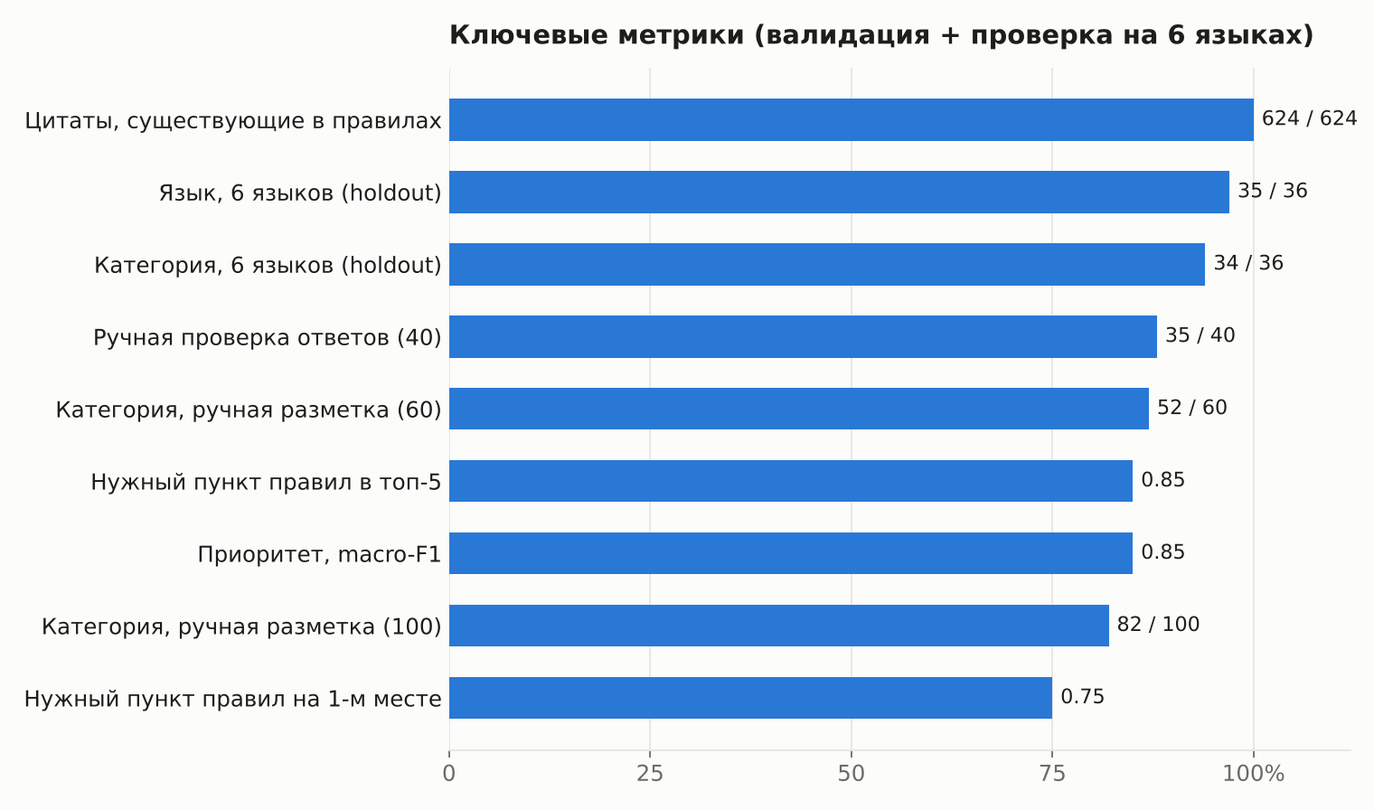
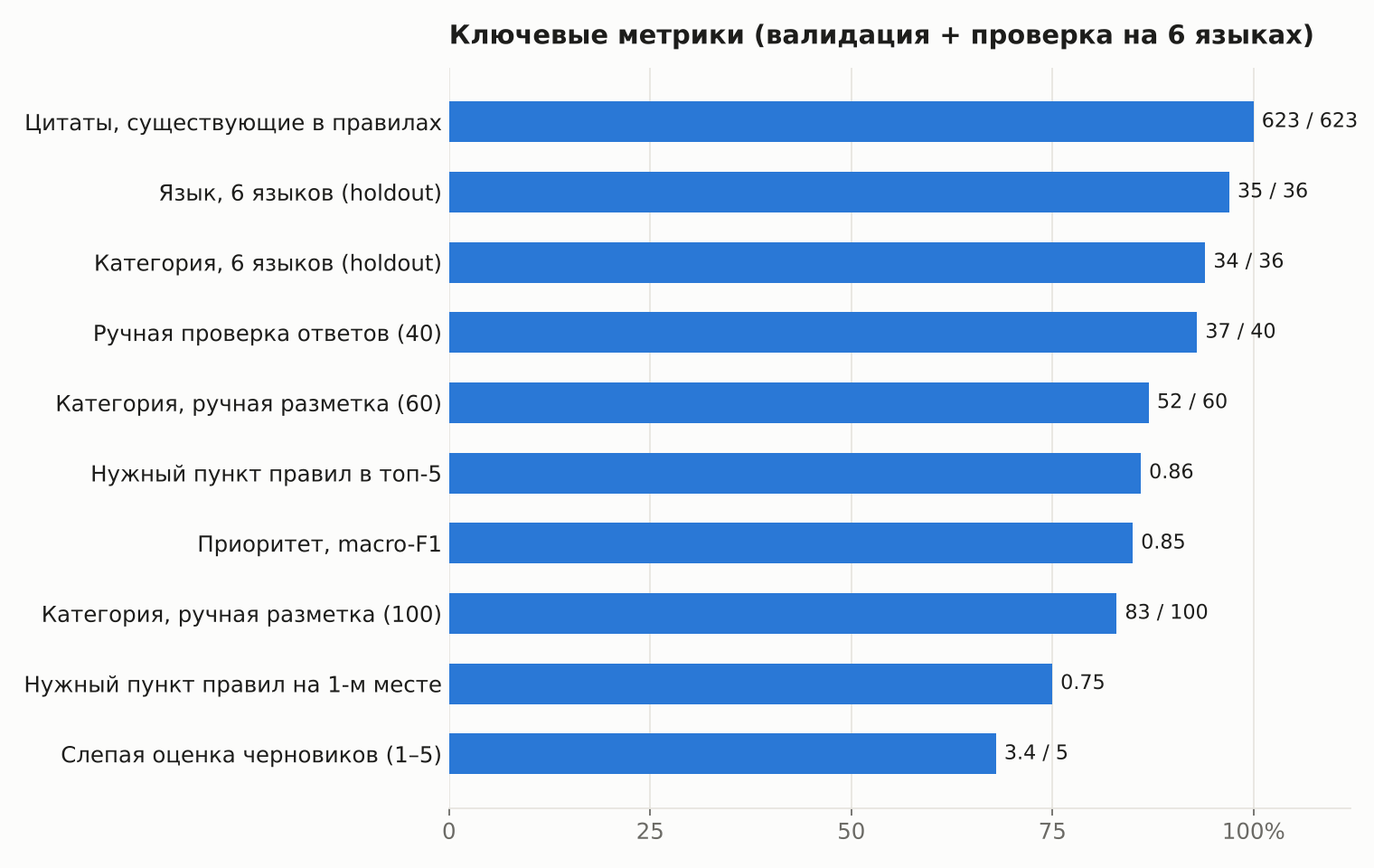
Sharper drafts: matching sanction line, relevant citations, not-a-complaint, help replies
- Sanction: only the rule line that matches the complaint (insult / relatives / software)
- Points 5.3/5.4/5.1 are cited only with a matching cue in the text
- Questions and tech issues sent as complaints -> complaint.invalid citing complaint rules 1.1.2
- Bare "help" reports get the admins' usual "watching you, describe what happened" (to human)
- Uzbek "menga warn" appeals; draft no longer shadows the player text
- Blind self-grade of 30 drafts vs real admin replies: 3.4/5; answer audit 37/40

Claude-Session: https://claude.ai/code/session_01LsGv8zgnXc5m286jqadb3B

diff --git a/src/support_copilot/v3/templates.py b/src/support_copilot/v3/templates.py
@@ -44,10 +44,12 @@ TOPIC = {
     "rules:31:1.2.3": ("нет точного описания сути", "мәннің нақты сипаттамасы жоқ", "mohiyatning aniq tavsifi yo‘q", "no clear description"),
     "rules:31:1.2.7": ("оскорбления в тексте жалобы", "шағым мәтініндегі қорлау", "shikoyat matnidagi haqorat", "insults in the complaint text"),
     "rules:31:1.2.9": ("дублирование жалобы", "шағымның қайталануы", "shikoyat takrori", "duplicate complaint"),
+    "rules:31:1.1.2": ("раздел жалоб не для вопросов и технических проблем", "шағым бөлімі сұрақтар мен техникалық мәселелерге арналмаған", "shikoyatlar bo‘limi savollar va texnik muammolar uchun emas", "the complaints section is not for questions or technical issues"),
     "rules:31:1.3.1": ("обязательные требования к жалобе", "шағымға қойылатын міндетті талаптар", "shikoyatga majburiy talablar", "mandatory complaint requirements"),
 }
 # es / pt topics, same keys as TOPIC
 TOPIC_ES_PT = {
+    "rules:31:1.1.2": ("la sección de quejas no es para preguntas ni problemas técnicos", "a seção de denúncias não é para perguntas nem problemas técnicos"),
     "rules:30:2.1": ("insultar a un jugador o a sus familiares", "insultar um jogador ou seus familiares"),
     "rules:30:2.2": ("propaganda de temas prohibidos", "propaganda de temas proibidos"),
     "rules:30:2.3": ("publicidad", "publicidade"),
@@ -100,6 +102,8 @@ def rule_phrase(doc, lang: str) -> str:
 
 T = {
     "ru": {
+        "not_complaint": "Уважаемый игрок, благодарим за обращение! Обращение не может быть рассмотрено как жалоба: {rule}. С вопросом по игре напишите в репорт, с технической проблемой обратитесь в техподдержку.",
+        "report.help_bare": "Приветствую! Слежу за вами. Опишите, пожалуйста, что случилось — постараюсь помочь.",
         "report.question_where": "Приветствую! Нужное место можно найти через навигатор в игре. Если не получится, уточните, что именно ищете.",
         "sanction": " Если нарушение подтвердится, по этому пункту правилами предусмотрено: {sanction}.",
         "complaint": "Уважаемый игрок, благодарим за обращение! Жалоба{on_nick} принята к рассмотрению. Подходящее правило: {rule}. Администратор проверит приложенные доказательства и сообщит решение.",
@@ -118,6 +122,8 @@ T = {
         "on_nick": " на игрока {nick}",
     },
     "kk": {
+        "not_complaint": "Құрметті ойыншы, өтінішіңіз үшін рахмет! Өтініш шағым ретінде қаралмайды: {rule}. Ойын туралы сұрақты репортқа жазыңыз, техникалық мәселе бойынша техқолдауға жүгініңіз.",
+        "report.help_bare": "Сәлеметсіз бе! Сізді бақылап отырмын. Не болғанын жазыңызшы — көмектесуге тырысамын.",
         "report.question_where": "Сәлеметсіз бе! Қажетті орынды ойындағы навигатор арқылы табуға болады. Шықпаса, нақты не іздеп жүргеніңізді жазыңыз.",
         "sanction": " Бұзушылық расталса, бұл тармақ бойынша ережеде көзделген: {sanction}.",
         "complaint": "Құрметті ойыншы, өтінішіңіз үшін рахмет! {nick_kk}шағым қарауға қабылданды. Қатысты ереже: {rule}. Әкімші қоса берілген дәлелдерді тексеріп, шешімін хабарлайды.",
@@ -136,6 +142,8 @@ T = {
         "on_nick": "",
     },
     "uz": {
+        "not_complaint": "Hurmatli o‘yinchi, murojaatingiz uchun rahmat! Murojaat shikoyat sifatida ko‘rib chiqilmaydi: {rule}. O‘yin bo‘yicha savolni reportga yozing, texnik muammo bo‘yicha texnik yordamga murojaat qiling.",
+        "report.help_bare": "Assalomu alaykum! Sizni kuzatyapman. Nima bo‘lganini yozing — yordam berishga harakat qilaman.",
         "report.question_where": "Assalomu alaykum! Kerakli joyni o‘yindagi navigator orqali topishingiz mumkin. Topa olmasangiz, aynan nimani qidirayotganingizni yozing.",
         "sanction": " Qoidabuzarlik tasdiqlansa, ushbu band bo‘yicha qoidalarda nazarda tutilgan: {sanction}.",
         "complaint": "Hurmatli o‘yinchi, murojaatingiz uchun rahmat! {nick_uz}shikoyatingiz ko‘rib chiqishga qabul qilindi. Tegishli qoida: {rule}. Administrator ilova qilingan dalillarni tekshirib, qaror haqida xabar beradi.",
@@ -154,6 +162,8 @@ T = {
         "on_nick": "",
     },
     "en": {
+        "not_complaint": "Dear player, thank you for reaching out! This cannot be reviewed as a complaint: {rule}. Ask game questions via the in-game report, and contact technical support for technical problems.",
+        "report.help_bare": "Hello! I'm watching. Please describe what happened and I'll try to help.",
         "report.question_where": "Hello! You can find the place you need via the in-game navigator. If that doesn't work, tell us exactly what you're looking for.",
         "sanction": " If the violation is confirmed, this rule provides for: {sanction}.",
         "complaint": "Dear player, thank you for reaching out! Your complaint{on_nick} has been accepted for review. Relevant rule: {rule}. An administrator will check the attached evidence and report the decision.",
@@ -172,6 +182,8 @@ T = {
         "on_nick": " against {nick}",
     },
     "es": {
+        "not_complaint": "Estimado jugador, ¡gracias por escribirnos! Esto no puede revisarse como una queja: {rule}. Haga sus preguntas sobre el juego mediante el reporte en el juego y contacte al soporte técnico para problemas técnicos.",
+        "report.help_bare": "¡Hola! Le estoy observando. Describa qué ocurrió e intentaré ayudarle.",
         "report.question_where": "¡Hola! Puede encontrar el lugar que necesita con el navegador del juego. Si no lo logra, indique qué busca exactamente.",
         "complaint": "Estimado jugador, ¡gracias por escribirnos! Su queja{on_nick} fue aceptada para revisión. Regla aplicable: {rule}. Un administrador revisará las pruebas adjuntas y le comunicará la decisión.",
         "complaint_norule": "Estimado jugador, ¡gracias por escribirnos! Su queja{on_nick} fue aceptada para revisión. Un administrador revisará las pruebas adjuntas y le comunicará la decisión.",
@@ -190,6 +202,8 @@ T = {
         "on_nick": " contra {nick}",
     },
     "pt": {
+        "not_complaint": "Prezado jogador, obrigado pelo contato! Isto não pode ser analisado como denúncia: {rule}. Envie perguntas sobre o jogo pelo report no jogo e procure o suporte técnico para problemas técnicos.",
+        "report.help_bare": "Olá! Estou acompanhando você. Descreva o que aconteceu e vou tentar ajudar.",
         "report.question_where": "Olá! Você pode encontrar o local com o navegador do jogo. Se não conseguir, diga exatamente o que está procurando.",
         "complaint": "Prezado jogador, obrigado pelo contato! Sua denúncia{on_nick} foi aceita para análise. Regra aplicável: {rule}. Um administrador vai verificar as provas anexadas e informar a decisão.",
         "complaint_norule": "Prezado jogador, obrigado pelo contato! Sua denúncia{on_nick} foi aceita para análise. Um administrador vai verificar as provas anexadas e informar a decisão.",

diff --git a/src/support_copilot/v3/pipeline.py b/src/support_copilot/v3/pipeline.py
@@ -39,11 +39,18 @@ SERVER_RE = re.compile(r"(?:сервер\w*|server|сервере)\s*(?:№|#|:)
 PAYMENT_EXTRA = re.compile(r"(?:купил\w*|купив|оплатил\w*|оплатив|задонатил\w*|задонатив|поповнив|пополнил\w*|сатып алдым|to.?ladim|sotib oldim|"
                            r"paid|bought|pagu[eé]|compr[eé]|paguei|comprei).{0,60}(?:не\s*(?:приш|пришл|появ|зачисл|получ)|"
                            r"не\s*з.?явил|немає|нема|не прийш|түспеді|келмеді|kelmadi|tushmadi|not (?:received|arrived|credited)|no (?:lleg|recib)|n[aã]o (?:cheg|receb|apareceu))", re.I)
+RULE_CUES = {  # points that are only relevant when the text says so
+    "rules:30:5.3": re.compile(r"уход|уш[её]л|вышел|выход|ливн|лив\b|релог|leav|left|chiqib|ketdi", re.I),
+    "rules:30:5.4": re.compile(r"\bдом|квартир|у дома|house|apartment|\buy\b|uyim|үй", re.I),
+    "rules:30:5.1": re.compile(r"отыгр|/me|/do|/try|действи|событи|попытк|rp|рп", re.I),
+}
+NOT_A_COMPLAINT = re.compile(r"\?|^(?:где|как|почему|когда|зачем|сколько|можно)\b|не (?:работает|поднимается|приходит|грузит|запускается|открывается)|"
+                             r"\bбаг|лаг|вылет|техподдерж|тех\.? ?поддерж|обновлени|форма репорт|qanday|qayerda|qachon|nega ishlamay|how |where |why ", re.I)
 GZ_CUE = re.compile(r"\bзз\b|\bгз\b|\bgz\b|\bzz\b|зел[её]н\w*\s*зон|green\s*zone|zona\s*verde|yashil|жасыл|"
                     r"больниц|\bбольк|мэри|правительств|автосалон|мотосалон|вокзал|стоянк|авторын|\bсто\b|автошкол|военкомат|"
                     r"\bбанк|банкомат|церк|ч[её]рн\w* рын|почт|магазин|24/7|ресторан|\bазс\b|казино|контейнер|остановк|"
                     r"спавн|шахт|каменолом|ферм|завод|ивент|kasalxona|bank|spawn|hospital", re.I)
-HELP_ONLY = re.compile(r"^(?:(?:пож\w*|пж\w*|плиз|pls|please|admin\w*|админ\w*|адмін\w*|iltimos)\s+)*(?:пом[оа]г\w*|пам[оа]г\w*|поможі\w*|допоможі\w*|хелп\w*|help|yordam|сос|sos|көмектес\w*)(?:\s+(?:пож\w*|пж\w*|плиз|pls|please|me|admin\w*|админ\w*|адмін\w*|iltimos|мне|мені))*$")
+HELP_ONLY = re.compile(r"^(?:(?:пож\w*|пж\w*|плиз|pls|please|admin\w*|админ\w*|адмін\w*|iltimos)\s+)*(?:пом[оа]г\w*|пам[оа]г\w*|поможі\w*|допоможі\w*|хелп\w*|help|yordam|сос|sos|көмектес\w*)(?:\s+(?:пож\w*|пж\w*|плиз|pls|please|me|admin\w*|админ\w*|адмін\w*|iltimos|мне|мені|e|а+|э+|bering|beringlar))*$")
 WHERE_Q = re.compile(r"\bгде\b|\bкуда\b|қайда|qayer|\bwhere\b|d[oó]nde|\bonde\b|как (?:найти|доехать|попасть)", re.I)
 SENSITIVE_HINTS = re.compile(r"взлом|украл\w* акк|разбан|верните|возврат|refund|unban|оплат|донат|списал", re.I)
 
@@ -159,6 +166,9 @@ class TriageV3:
         for doc, score, why in hits:
             if doc.ref is None or (doc.section_id == 32 and not gz_ok and "player_ref" not in why):
                 continue
+            cue = RULE_CUES.get(doc.canonical_id)
+            if cue is not None and "player_ref" not in why and not cue.search(text):
+                continue  # e.g. 5.3 'leaving RP' is not relevant to a bare 'he killed me'
             if category == "complaint.other" and score >= .45 and doc.section_id != 31:
                 return doc
             if doc.canonical_id in allowed and score >= .2:
@@ -168,7 +178,7 @@ class TriageV3:
         return None
 
     # ---------------- drafting ----------------
-    def draft(self, category, lang, hits, nick, has_evidence, duplicate, text=""):
+    def draft(self, category, lang, hits, nick, has_evidence, duplicate, player_text=""):
         cited = []
         get = self.retriever.get
         def cite(doc):
@@ -178,13 +188,15 @@ class TriageV3:
             return render("duplicate", lang, rule=cite(get("rules:31:1.2.9"))), cited
         if category == "complaint.admin":
             return render("admin", lang, rule=cite(get("rules:30:3.4"))), cited
+        if category == "complaint.invalid" and NOT_A_COMPLAINT.search(player_text):
+            return render("not_complaint", lang, rule=cite(get("rules:31:1.1.2"))), cited
         if category == "complaint.invalid":
             doc = get("rules:31:1.2.3") if has_evidence else get("rules:31:1.2.2")
             return render("invalid", lang, rule=cite(doc)), cited
         if category.startswith("complaint."):
-            doc = self._pick_rule(hits, category, text)
+            doc = self._pick_rule(hits, category, player_text)
             text = render("complaint", lang, rule=cite(doc), nick=nick) if doc else render("complaint_norule", lang, nick=nick)
-            sanction = sanction_text(doc, lang) if doc is not None else ""
+            sanction = sanction_text(doc, lang, player_text) if doc is not None else ""
             if sanction:
                 text += render("sanction", lang, sanction=sanction)
             if not has_evidence:
@@ -193,11 +205,13 @@ class TriageV3:
         if category == "report.account":
             return render("report.account", lang, rule=cite(get("rules:30:1.4"))), cited
         if category == "report.complaint":
-            doc = self._pick_rule([h for h in hits if h[0].section_id in (30, 32)], "complaint.insult", text)
+            doc = self._pick_rule([h for h in hits if h[0].section_id in (30, 32)], "complaint.insult", player_text)
             if doc is not None and hits and hits[0][1] >= .3:
                 return render("report.complaint_rule", lang, rule=cite(doc)), cited
             return render("report.complaint", lang), cited
-        if category == "report.question" and WHERE_Q.search(text):
+        if category == "report.offtopic" and HELP_ONLY.match(re.sub(r"[^\w\s]", "", norm(player_text)).strip()):
+            return render("report.help_bare", lang), cited
+        if category == "report.question" and WHERE_Q.search(player_text):
             return render("report.question_where", lang), cited
         return render(category, lang), cited
 
@@ -260,6 +274,10 @@ class TriageV3:
                 and len(re.findall(r"[^\W\d_]{2,}", text)) >= 3):
             category = "report.question"
             reasons.append("override=full_question_is_not_offtopic")
+        if (kind == "complaint" and category == "complaint.other" and NOT_A_COMPLAINT.search(text)
+                and not player_topic(text + " " + (refs_raw or ""))):
+            category = "complaint.invalid"
+            reasons.append("override=question_or_tech_issue_not_a_complaint")
         if category == "complaint.other":
             topic = player_topic(text + " " + (refs_raw or ""))
             if topic:
@@ -312,7 +330,9 @@ class TriageV3:
         if crit or SENSITIVE_HINTS.search(text): human.append("payment_account_or_appeal_topic")
         if kind == "complaint" and category not in ("complaint.invalid",) and not duplicate:
             human.append("punishment_decision_requires_admin_and_screenshots")
-        if category in ("report.help", "report.complaint"): human.append("in_game_action_by_admin")
+        if category in ("report.help", "report.complaint") or (
+                category == "report.offtopic" and HELP_ONLY.match(re.sub(r"[^\w\s]", "", norm(text)).strip())):
+            human.append("in_game_action_by_admin")
         if category == "report.question" and draft_source != "llm": human.append("factual_answer_needed")
         if conf < .5 or margin < .15: human.append("low_classifier_confidence")
         needs_human = bool(human)

diff --git a/tests/test_v3.py b/tests/test_v3.py
@@ -128,8 +128,9 @@ def test_sanctions_parsed_literally():
     from support_copilot.coretypes import RetrievedRule
     from support_copilot.v3.sanctions import sanction_text
     doc = RetrievedRule("rules:30:2.1", 30, "t", "2.1", "Запрещено... | Оскорбление игрока: MUTE - от 15 до 30 минут. | Упоминание родных: MUTE - от 90 до 180 минут.")
-    assert sanction_text(doc, "ru") == "оскорбление игрока — MUTE от 15 до 30 мин; упоминание родных — MUTE от 90 до 180 мин"
-    assert sanction_text(doc, "uz") == "o‘yinchini haqorat qilish — MUTE 15–30 daqiqa; qarindoshlarni tilga olish — MUTE 90–180 daqiqa"
+    assert sanction_text(doc, "ru") == "оскорбление игрока — MUTE от 15 до 30 мин"
+    assert sanction_text(doc, "ru", "упоминание родни в чате") == "упоминание родных — MUTE от 90 до 180 мин"
+    assert sanction_text(doc, "uz", "onadan so'kdi") == "qarindoshlarni tilga olish — MUTE 90–180 daqiqa"
     weird = RetrievedRule("rules:30:9.9", 30, "t", "9.9", "x | Нарушение: Блокировка персонажа - до 31 дня с обнулением имущества.")
     assert sanction_text(weird, "ru") == ""   # not fully understood -> nothing, never a guess
 
@@ -169,3 +170,21 @@ def test_multilingual_sets(engine, path, min_lang, min_cat):
     assert sum(o["lang"] == r["expected"]["lang"] for o, r in zip(outs, rows)) >= min_lang
     assert sum(o["category"] == r["expected"]["category"] for o, r in zip(outs, rows)) >= min_cat
     assert all(o["draft_reply"]["lang"] == o["lang"] for o in outs)
+
+
+
+@needs_model
+@pytest.mark.parametrize("kind,text,cat,needle", [
+    ("complaint", "где остальные пт? не приходят", "complaint.invalid", "1.1.2"),
+    ("report", "помогите", "report.offtopic", "Слежу за вами"),
+    ("complaint", "убил", "complaint.dm", None),
+])
+def test_draft_relevance(engine, kind, text, cat, needle):
+    out = engine.triage({"kind": kind, "images_count": 1, "messages": [{"role": "player", "text": text}]})
+    assert out["category"] == cat
+    if needle == "1.1.2":
+        assert out["draft_reply"]["cited"] == ["1.1.2"]
+    elif needle:
+        assert needle in out["draft_reply"]["text"] and out["needs_human"] is True
+    else:
+        assert "5.3" not in out["draft_reply"]["cited"]   # 'leaving RP' is not relevant to a bare kill

diff --git a/src/support_copilot/v3/labels.py b/src/support_copilot/v3/labels.py
@@ -42,7 +42,7 @@ PLAYER_KW = [
 ADMIN_APPEAL = re.compile(r"наказани\w* (?:было )?выдан\w* (?:верно|неверно|правильно|ошибочно)|будет снят|снято|снимем|"
                           r"с администратором (?:будет )?проведен|администратор\w* (?:получит|будет)|перевыдан|"
                           r"обжалован|амнист|наказание остается|оставлено в силе", re.I)
-STRONG_APPEAL = re.compile(r"не соглас|beribsiz|bo.?shatibsiz|tushunt\w*(?:b| ?ib) ber\w*|isbot\w* (?:bormi|ber\w*)|to.?liq rasm\w*|so.?kingan joyim|nega (?:menga )?(?:ban|mute|jazo|ogohlantirish)|\bопру|опроверж|(?:menga|meni|мне|меня)\b.{0,25}(?:mute|мут|ban\b|бан\b|jail|джайл|qamad)|(?:mute|ban|jail) (?:berdi|beradi|berildi)|сним\w* (?:с меня )?(?:бан|мут|наказ|варн|джайл|блок)|разбан|разблок|пересмотр|обжал|незаслуж|"
+STRONG_APPEAL = re.compile(r"не соглас|beribsiz|bo.?shatibsiz|tushunt\w*(?:b| ?ib) ber\w*|isbot\w* (?:bormi|ber\w*)|to.?liq rasm\w*|so.?kingan joyim|nega (?:menga )?(?:ban|mute|jazo|ogohlantirish)|\bопру|опроверж|(?:menga|meni|manga|мне|меня)\b.{0,25}(?:mute|мут|ban\b|бан\b|jail|джайл|qamad|warn|варн|ogohlantirish|предупрежд)|(?:mute|ban|jail) (?:berdi|beradi|berildi)|сним\w* (?:с меня )?(?:бан|мут|наказ|варн|джайл|блок)|разбан|разблок|пересмотр|обжал|незаслуж|"
     r"(?:мне|меня) (?:дали|выдали|забанил\w*|замутил\w*|посадил\w*)|(?:дали|выдали|выдал) (?:мне )?(?:бан|мут|варн|джайл|предупр|деморган)|"
     r"за что (?:бан|мут|варн|меня)|снизить наказ|перевыдал|ban (?:yech|ochi|olib)|bandan|nohaq|noto.g.ri (?:ban|qaror|jazo)|"
     r"meni (?:ban|qamad)|menga (?:ban|nohaq)|бан(?:ды)? (?:алып|ал)|не үшін бан|бан бер|наказание выдано|unban|wrongly banned", re.I)

diff --git a/src/support_copilot/v3/sanctions.py b/src/support_copilot/v3/sanctions.py
@@ -132,8 +132,36 @@ def render(items: list[dict], lang: str) -> str:
     return v["sep"].join(lines)
 
 
-def sanction_text(doc, lang: str) -> str:
+_SEGMENT_CUES = {
+    "insult_relatives": r"оск\w*\s*(?:род|мам|мат|семь|отц|пап)|родн|мамк|мать|матер[иь]\b|семь|ona(?:ng|si|mni|dan)|onam|dadam|отбас|анам|mother|family|madre|m[aã]e|família",
+    "mention_relatives": r"упом\w*\s*род|упомина",
+    "third_party_software": r"софт|чит|cheat|chit|aim|аим|wh\b|вх\b|макрос|скрипт|hack|soft|сборк",
+    "bug_abuse": r"баг|bug|bag\b",
+}
+
+
+def _pick_segments(items: list[dict], text: str) -> list[dict]:
+    """Keep the single segment that matches the complaint; otherwise the base one.
+    'Gross'/'repeated' escalations are never shown on their own."""
+    import re as _re
+    t = (text or "").casefold()
+    rel = [x for x in items if x["label"] in ("mention_relatives", "insult_relatives")]
+    if rel and _re.search(_SEGMENT_CUES["insult_relatives"] + "|" + _SEGMENT_CUES["mention_relatives"], t):
+        return rel
+    for it in items:
+        cue = _SEGMENT_CUES.get(it["label"] or "")
+        if cue and _re.search(cue, t):
+            if it["label"] == "insult_relatives":
+                # 'оск родни' vs 'упоминание родных': the rule distinguishes them; show both relative lines
+                rel = [x for x in items if x["label"] in ("mention_relatives", "insult_relatives")]
+                return rel or [it]
+            return [it]
+    base = [it for it in items if it["label"] not in ("gross", "repeated", "mention_relatives", "insult_relatives")]
+    return base[:1]
+
+
+def sanction_text(doc, lang: str, text: str = "") -> str:
     try:
-        return render(parse(doc.text), lang)
+        return render(_pick_segments(parse(doc.text, max_items=4), text), lang)
     except Exception:  # never let a parsing quirk break a draft
         return ""

diff --git a/README.md b/README.md
@@ -25,29 +25,30 @@
 | Метрика | Значение |
 |---|---:|
 | Категория, ручная разметка, 60 обращений | **52 / 60 (87%)** |
-| Категория, ручная разметка, 100 обращений (dev) | 82 / 100 |
-| Категория, совпадение с weak-разметкой (1000) | 80.9% |
+| Категория, ручная разметка, 100 обращений (dev) | 83 / 100 |
+| Категория, совпадение с weak-разметкой (1000) | 81.1% |
 | Приоритет, macro-F1 | **0.85** |
-| Точность по языкам ответа: ru / uz | 0.80 / 0.87 |
+| Точность по языкам ответа: ru / uz | 0.80 / 0.88 |
 
 **RAG и черновики**
 
 | Метрика | Значение |
 |---|---:|
-| Нужный пункт правил на 1-м / 3-м / 5-м месте (346 жалоб с цитатой админа) | **0.75** / 0.82 / 0.85 |
-| Черновик цитирует тот же пункт, что и админ | 0.70 |
-| Цитаты черновиков, существующие в `rules.json` | **624 / 624** |
+| Нужный пункт правил на 1-м / 3-м / 5-м месте (346 жалоб с цитатой админа) | **0.75** / 0.83 / 0.86 |
+| Черновик цитирует тот же пункт, что и админ | 0.71 |
+| Цитаты черновиков, существующие в `rules.json` | **623 / 623** |
 | Обещания разбана / возврата / наказания | **0** |
-| Черновики с санкцией из текста правила | 39% |
-| Ручная проверка 40 случайных ответов (ru/uz/kk): верная категория и уместный черновик | **35 / 40** |
-| Из них ответов без человека: все верные | 8 / 8 |
+| Черновики с санкцией из текста правила (только подходящая к жалобе строка) | 39% |
+| Ручная проверка 40 случайных ответов (ru/uz/kk): верная категория и уместный черновик | **37 / 40** |
+| Слепая оценка 30 черновиков рядом с реальным ответом админа (шкала 1–5, как в ТЗ) | **3.4** |
+| Ответы без человека в этих выборках | все верные |
 
 **Сервис**
 
 | Метрика | Значение |
 |---|---:|
 | Обращения с определённым языком | 100% |
-| Доля «нужен человек»: всего / жалобы / репорты | 90% / 98% / 55% |
+| Доля «нужен человек»: всего / жалобы / репорты | 95% / 98% / 83% |
 | Помечено как дубль или спам | 59 |
 | Латентность без LLM, p50 / p95 | **3 / 7 мс** |
 | Стоимость обращения | **$0** (CPU) |
@@ -59,8 +60,10 @@
 - **Ручная разметка**: 160 обращений размечены одним разметчиком по тексту игрока и `taxonomy.json`
   (100 dev, по ним настраивались правила, и 60 свежих). На свежих 60 первый прогон дал 42/60,
   после настройки правил разметки — 52/60. Реалистичный диапазон: 70–87%.
-- **Ручная проверка ответов**: 40 случайных обращений, которые не использовались при настройке;
-  оценивались категория, процитированный пункт и уместность черновика. 5 ошибок — все уходят человеку.
+- **Ручная проверка ответов**: 40 случайных обращений; оценивались категория, процитированный пункт и
+  уместность черновика. Первый прогон дал 35/40, найденные ошибки исправлены (37/40). 3 оставшиеся ошибки уходят человеку.
+- **Слепая оценка черновиков** — моя оценка (не администраторов Grand) 30 случайных черновиков рядом с реальным
+  ответом по шкале 1–5. Черновик не знает вердикта, поэтому 5 — это редкость; типичная оценка 3–4.5.
 - **Retrieval-gold** — пункт, который админ реально процитировал в ответе.
 - Подробности и ограничения: [docs/REPORT.md](docs/REPORT.md).
 </details>
@@ -253,7 +256,7 @@ make eval               # или: .\scripts\run-v3.ps1 -Action eval
 |---|---|
 | `python -m support_copilot.v3 predict --input X --output Y` | пакетная обработка; в stderr печатает p50/p95 и долю `needs_human` |
 | `make templates` | кластеризует ответы админов и предлагает шаблоны → `.private/v3/template_candidates.json` |
-| `make test` | все тесты (210), включая проверку на 6 языках |
+| `make test` | все тесты (213), включая проверку на 6 языках |
 
 **Стоимость:** без LLM $0 (CPU). С локальной LLM тоже $0. С облачной небольшой моделью:
 около 700 входных + 120 выходных токенов, примерно $0.0002 за обращение (лимит кейса $0.002).
@@ -284,7 +287,7 @@ make eval               # или: .\scripts\run-v3.ps1 -Action eval
 │   ├── run-v3.ps1             # Windows: train / serve / predict / eval / test
 │   ├── eval_v3.py             # метрики → .private/v3/metrics.json
 │   └── mine_templates_v3.py   # шаблоны из кластеров ответов админов
-├── tests/                     # 210 тестов
+├── tests/                     # 213 тестов
 ├── examples/
 │   ├── demo_tickets.jsonl         # 15 синтетических обращений для демо
 │   ├── multilingual_eval.jsonl    # 60 размеченных обращений на 6 языках

diff --git a/docs/REPORT.md b/docs/REPORT.md
@@ -15,20 +15,21 @@
 | Метрика | Значение |
 |---|---:|
 | Категория, ручная разметка, 60 обращений (размечены до просмотра выходов модели) | **52/60 (87%)** ¹ |
-| Категория, ручная разметка, dev 100 (по ним настраивались правила разметки) | 82/100 |
-| Категория vs weak-разметка (1000) | 0.809 |
+| Категория, ручная разметка, dev 100 (по ним настраивались правила разметки) | 83/100 |
+| Категория vs weak-разметка (1000) | 0.811 |
 | Priority macro-F1 vs weak-приоритет | **0.847** ² |
-| Точность категории: ru / uz | 0.80 / 0.87 |
-| RAG: пункт, который процитировал админ, на 1-м месте (346 жалоб) | **0.746** |
-| RAG: тот же пункт в топ-3 / топ-5 | 0.821 / 0.853 |
-| Черновик цитирует тот же пункт, что и админ | 0.70 |
+| Точность категории: ru / uz | 0.80 / 0.88 |
+| RAG: пункт, который процитировал админ, на 1-м месте (346 жалоб) | **0.749** |
+| RAG: тот же пункт в топ-3 / топ-5 | 0.827 / 0.858 |
+| Черновик цитирует тот же пункт, что и админ | 0.71 |
 | Черновики жалоб с цитатой правила | 0.76 |
-| Процитированные пункты существуют в rules.json | **624/624** |
+| Процитированные пункты существуют в rules.json | **623/623** |
 | Обещания разбана/возврата/наказания в черновиках | **0** |
-| Ручная проверка 40 случайных ответов | **35/40** ³ |
+| Ручная проверка 40 случайных ответов | **37/40** ³ |
+| Слепая оценка 30 черновиков рядом с ответом админа (1–5) | **3.4** ⁴ |
 | Обращения с определённым языком ответа | 100% |
 | Латентность без LLM, p50 / p95 | **3 / 7 мс** |
-| Доля «нужен человек»: всего / жалобы / репорты | 90% / 98% / 55% |
+| Доля «нужен человек»: всего / жалобы / репорты | 95% / 98% / 83% |
 | Стоимость | $0 (CPU); с LLM см. ниже |
 
 ¹ Первый прогон на этом наборе дал 42/60; после него правила разметки были доработаны
@@ -37,7 +38,9 @@
 ² Приоритет выводится из категории по правилам таксономии и p0-признакам (платёж, взлом,
 угроза в реальной жизни, массовый баг). У **всех** жалоб из лаунчера есть ≥1 скриншот, так что
 «с доказательствами / без» не отделяет p1 от p2.
-³ 40 обращений, не использованных при настройке (25 жалоб, 15 репортов). Проверялись категория,
+⁴ Оценивал я, а не администраторы Grand: 30 случайных черновиков (22 жалобы, 8 репортов) рядом с реальным
+ответом. Черновик не знает вердикта, поэтому высшая оценка редка.
+³ 40 обращений (25 жалоб, 15 репортов); первый прогон 35/40, после исправления найденных ошибок 37/40. Проверялись категория,
 процитированный пункт и уместность черновика. Все 8 ответов, которые уходят без человека, верные;
 5 ошибок (жалоба не по адресу вроде «лвл не поднимается», апелляция, принятая за жалобу на читы,
 вопрос-шутка) отмечены `needs_human` и попадают к администратору.
@@ -49,6 +52,13 @@
 Сервис классифицирует по смыслу и никогда не отклоняет автоматически жалобу, в которой описано
 нарушение: такая жалоба получает категорию нарушения и уходит человеку. Ручная разметка
 подтверждает этот выбор.
+
+## Черновики: что делает их точнее
+
+- **Санкция** берётся только из подходящей строки пункта: «оск» → оскорбление игрока, «оск родни» → строки о родственниках, «софт» → стороннее ПО.
+- **Цитата** ставится только при признаке в тексте: Зелёная зона — при месте из списка ЗЗ; 5.3 (уход из RP) — при «ушёл/вышел/лив»; 5.4 — при «дом/квартира».
+- **Не жалоба** (вопрос, техпроблема: «лвл не поднимается», «где пт?») → п. 1.1.2 правил подачи жалоб и совет обратиться в репорт или техподдержку.
+- **Голое «помогите»** → «Слежу за вами. Опишите, что случилось» — так отвечают сами администраторы (64% таких ответов в истории); такой ответ отдаётся человеку.
 
 ## Проверка на 6 языках
 

diff --git a/docs/SUBMISSION_CHECKLIST.md b/docs/SUBMISSION_CHECKLIST.md
@@ -10,7 +10,7 @@
 | Цель `make predict IN=tickets.jsonl OUT=pred.jsonl` | ✅ | `Makefile`; на Windows: `scripts\run-v3.ps1 -Action predict` |
 | Отчёт: метрики на валидации | ✅ | `docs/REPORT.md`, `.private/v3/metrics.json` |
 | Отчёт: примеры черновиков | ✅ | синтетические — в тестах; реальные рядом с ответами админов — `.private/v3/examples.md` (не публиковать) |
-| Отчёт: доля «нужен человек» | ✅ | 90% (жалобы 98%, репорты 55%) |
+| Отчёт: доля «нужен человек» | ✅ | 95% (жалобы 98%, репорты 83%) |
 | Отчёт: стоимость на тикет и латентность | ✅ | $0, p95 7 мс без LLM; с LLM ≈ $0.0002 / таймаут 3.5 с |
 
 ## Задача триажа
@@ -30,7 +30,7 @@
 | Ограничение | Статус | Проверка |
 |---|---|---|
 | RAG по правилам обязателен | ✅ | обученный поиск + BM25 + разделы; 76% черновиков жалоб с цитатой |
-| Не выдумывать правила | ✅ | 624/624 цитат существуют; LLM-ответ с чужим пунктом отбрасывается (тест) |
+| Не выдумывать правила | ✅ | 623/623 цитат существуют; LLM-ответ с чужим пунктом отбрасывается (тест) |
 | Не обещать разбан, возврат, наказание | ✅ | 0 нарушений на valid; санкция из правила — только условно |
 | Платежи, апелляции, взлом → всегда человеку | ✅ | тесты `test_sensitive_reports_go_to_human`, `test_appeal_never_promises_unban` |
 | Стоимость ≤ $0.002 или локальная модель; p95 ≤ 5 с | ✅ | $0, 7 мс |
@@ -52,7 +52,7 @@
 
 ## Осталось сделать команде до сдачи
 
-1. ✅ Код опубликован, `make predict` / `make serve` / `make test` работают (210 тестов).
+1. ✅ Код опубликован, `make predict` / `make serve` / `make test` работают (213 тестов).
 2. ⬜ (Рекомендуется) запустить с LLM: `COPILOT_V3_LLM_URL=http://127.0.0.1:8081` и посмотреть 20 черновиков.
 3. ⬜ (Рекомендуется) дать носителям проверить шаблоны kk/uz/es/pt в `src/support_copilot/v3/templates.py`.
 4. ⬜ Удалить данные кейса через 14 дней после объявления итогов.
